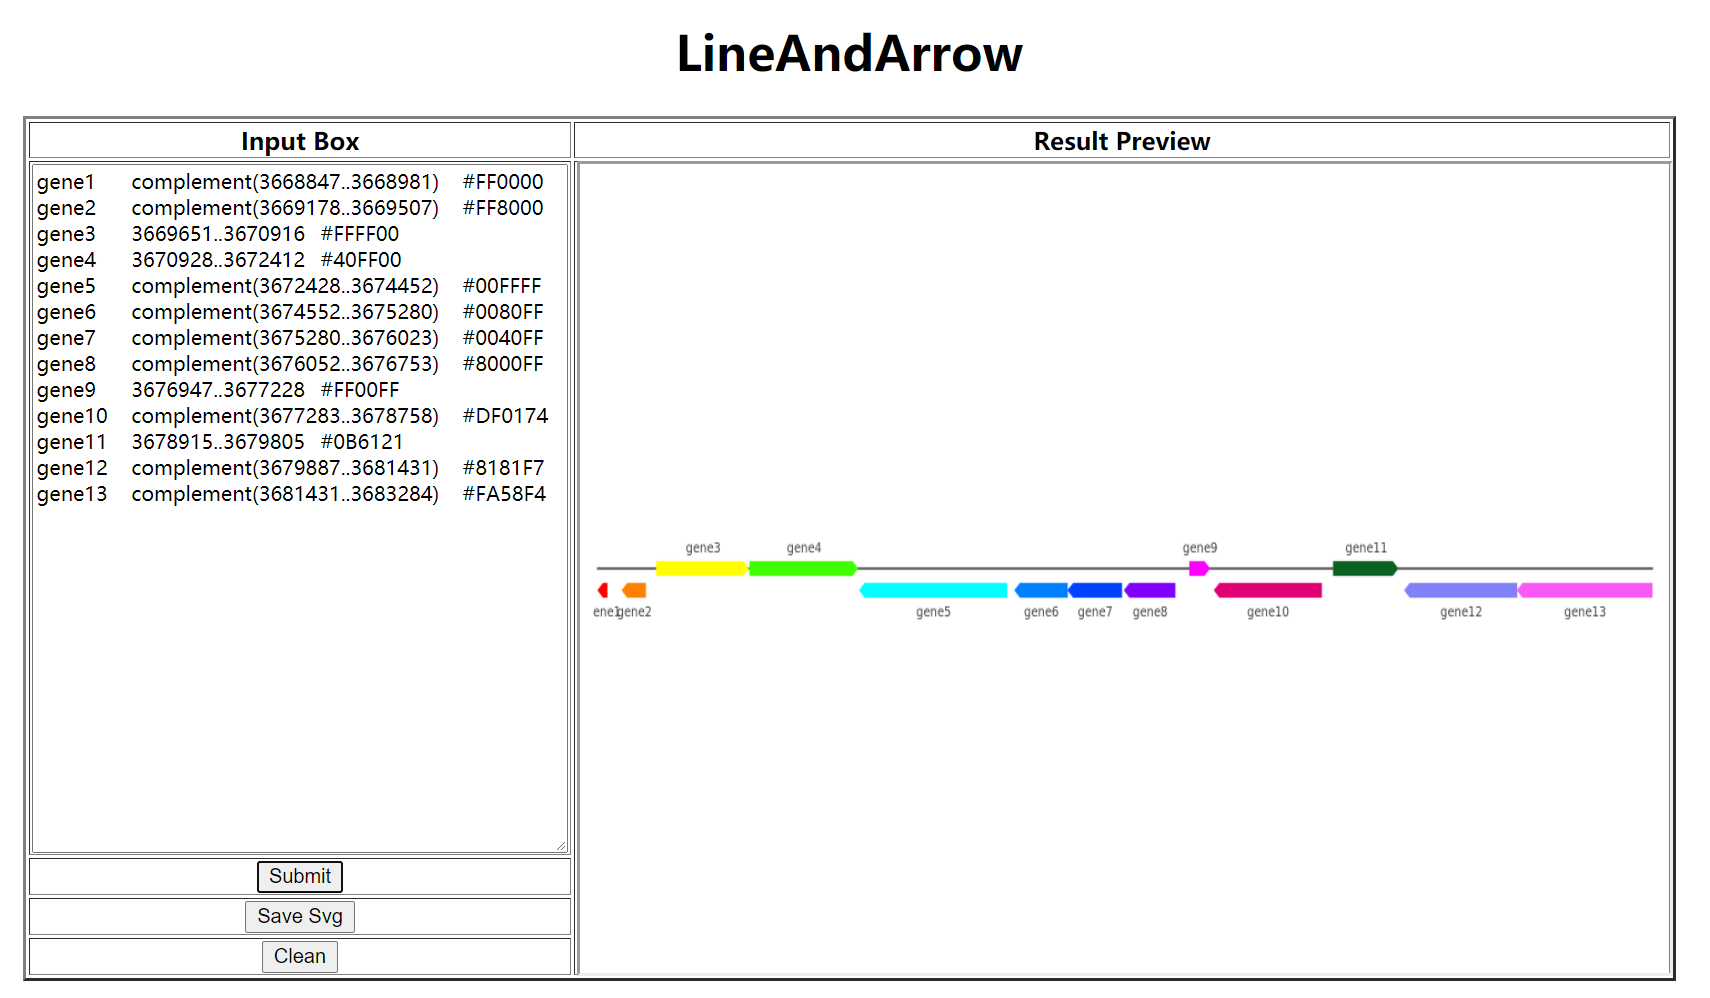
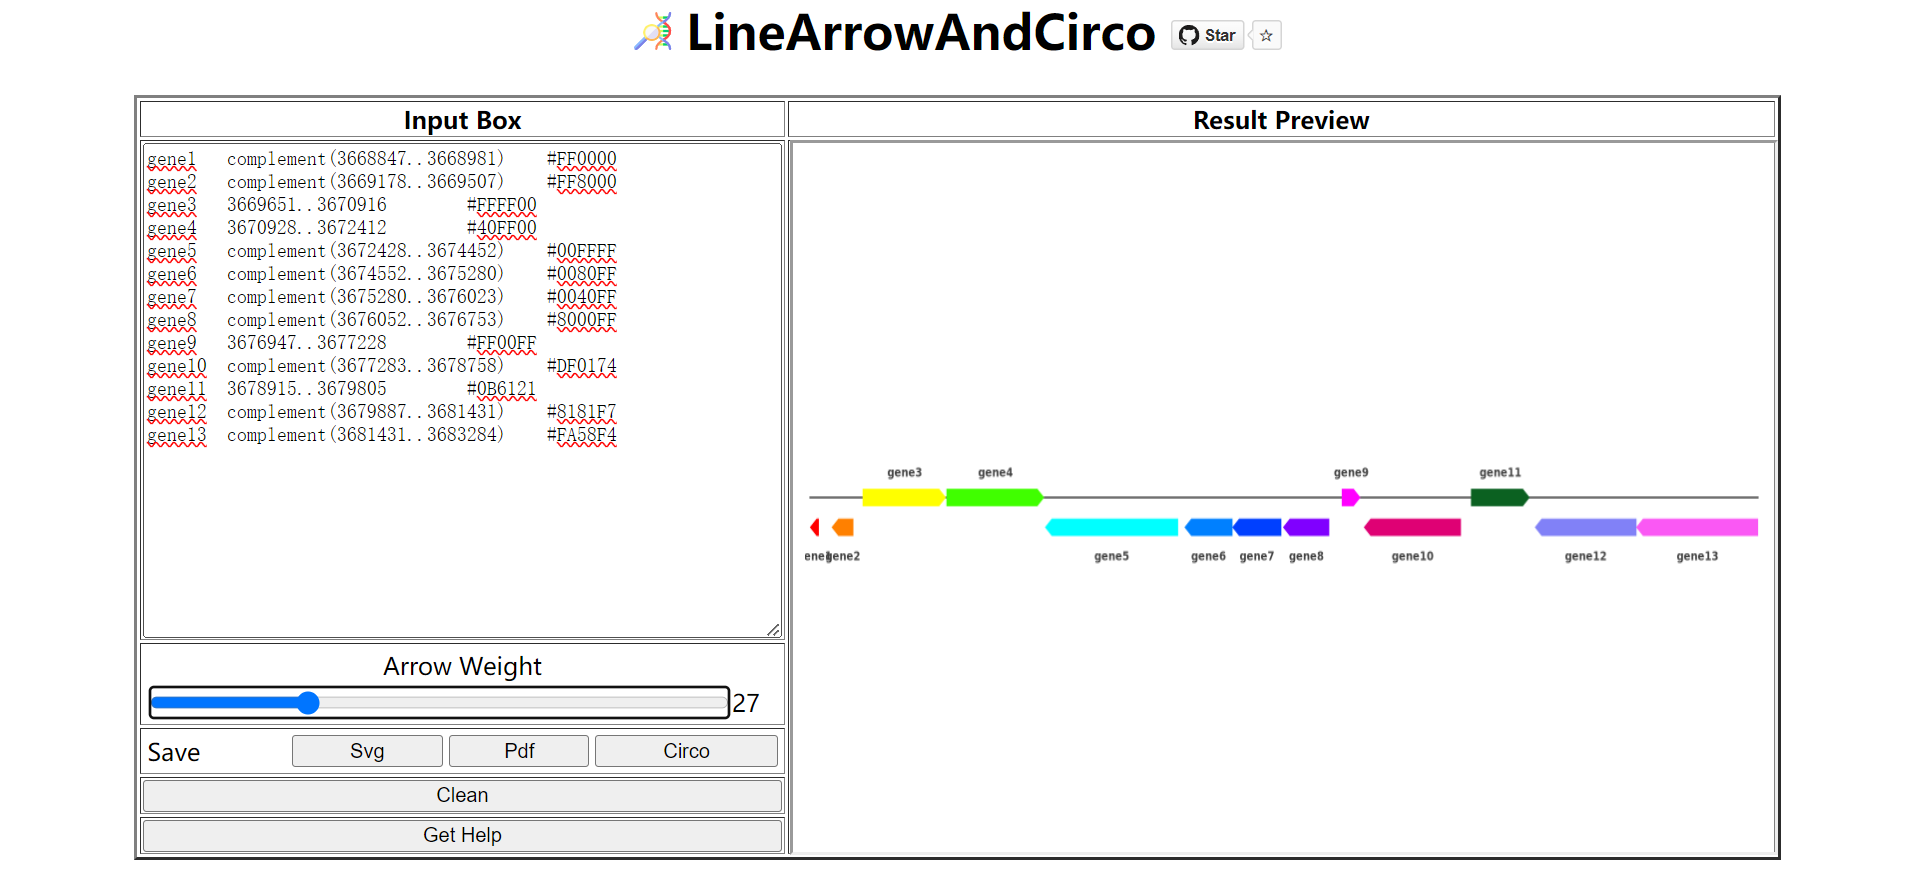
LineArrowAndCirco

Changed region(s): [[0.0, 0.0, 0.9918, 0.9978]]

diff --git a/lib/index.html b/lib/index.html
@@ -41,8 +41,8 @@
                 </div>
               </td>
               <td rowspan="8">
-                <iframe style="height: 100%; width: 100%;" src="" id="resultBox">
-                </iframe>
+                  <iframe style="height: 100%; width: 100%;" src="" id="resultBox"></iframe>
+                </body>
               </td>
             </tr>
             <tr>

diff --git a/src/main.cpp b/src/main.cpp
@@ -1,41 +1,32 @@
-#include "../include/cmdline.h"
 #include "SDK/Dataloader/SDK_Dataloader.hpp"
 #include "SDK/Drawer/SDK_Drawer.hpp"
+#include "../include/cmdline.h"
 #include <algorithm>
-#include <experimental/filesystem>
-#include <fstream>
+#include <filesystem>
 #include <iostream>
 #include <iterator>
 #include <map>
-#include <string>
 #include <vector>
-bool fileExists(const std::string& filename)
-{
-    std::ifstream file(filename);
-    return file.good();
-}
+
 namespace {
 
-
-
-std::map<std::string, std::string> initFolder(const std::string& tmp_dirpath = "./", const std::string& data_dirpath = "./")
+auto initFolder(const std::string& tmp_dirpath = "./", const std::string& data_dirpath = "./")
 {
-    namespace fs = std::experimental::filesystem;
     std::map<std::string, std::string> ph_of_dir;
 
     ph_of_dir["data"] = data_dirpath + "/data/";
     ph_of_dir["setting"] = data_dirpath + "/setting/";
     ph_of_dir["out"] = data_dirpath + "/out/";
     ph_of_dir["tmp"] = tmp_dirpath + "/tmp/";
-    for (auto& i : ph_of_dir)
-    {
-        if (!fileExists(i.second)) {
-            fs::create_directories(i.second);
+
+    for (auto& i : ph_of_dir) {
+        if (std::filesystem::exists(std::filesystem::path(i.second)) == false) {
+            std::filesystem::create_directory(i.second);
         }
     }
-
     return ph_of_dir;
 }
+
 }
 
 decltype(initFolder()) all_path;
@@ -59,7 +50,7 @@ int main(int argc, char** argv)
               << "           |___/" << std::endl
               << "\033[0m" << std::endl;
     cmdline::parser cmdconfig;
-    cmdconfig.set_program_name("LineAndArrow");
+    cmdconfig.set_program_name("LineArrowAndCirco");
     cmdconfig.add<std::string>("input", 'i', "Path to Input File", true);
     cmdconfig.add<std::string>("output", 'o', "Name of Output.", true);
     cmdconfig.add<double>("width", 'w', "Width Of the Arrow", false, 20.0);
@@ -84,12 +75,10 @@ int main(int argc, char** argv)
     SDK_Draw::make_line(surfacesvg, SDK_Core::NormalColor::GRy);
     SDK_Draw::make_circo(circo_surfacepdf);
 
-    std::string inputPath = cmdconfig.get<std::string>("input");
-    
-    
-    if (!fileExists(inputPath)) {
-        std::cout << "\033[1;32m" << inputPath << " Not exist. \033[0m" << std::endl;
-        throw std::logic_error(inputPath + " Not exist.");
+    std::filesystem::path strtxt(cmdconfig.get<std::string>("input"));
+    if (!std::filesystem::exists(cmdconfig.get<std::string>("input"))) {
+        std::cout << "\033[1;32m" << std::string(cmdconfig.get<std::string>("input")) << " Not exist. \033[0m" << std::endl;
+        throw std::logic_error(std::string(cmdconfig.get<std::string>("input")) + std::string(" Not exist."));
     }
     std::vector<SDK_Dataloader::fdata> data = SDK_Dataloader::readdata(cmdconfig.get<std::string>("input"));
     auto a = SDK_Dataloader::normalize_data(data);

diff --git a/src/SDK/Dataloader/SDK_Dataloader.cpp b/src/SDK/Dataloader/SDK_Dataloader.cpp
@@ -1,10 +1,8 @@
 #include "../Dataloader/SDK_Dataloader.hpp"
 #include "../Core/SDK_Core.hpp"
-#include <algorithm>
 #include <fstream>
 #include <iostream>
 #include <regex>
-#include <vector>
 namespace SDK_Dataloader {
 
 fdata::operator std::string()
@@ -24,14 +22,9 @@ std::vector<fdata> readdata(const std::string& pathway)
     if (database.is_open() == false)
         std::cout << "\033[1;32m" << pathway << " Not Open. \033[0m" << std::endl;
     std::vector<fdata> data;
-    int line_num ;
-    std::string content((std::istreambuf_iterator<char>(database)),(std::istreambuf_iterator<char>()));
-    line_num = std::count(content.begin(),content.end(),'\n');
-    int read_line = 0;
-    while (read_line < line_num) {
+    while (database.eof() != true) {
         std::string line;
         std::getline(database, line);
-        read_line++;
         if (line.empty())
             continue;
         try {
@@ -66,27 +59,6 @@ std::vector<pdata> normalize_data(const std::vector<fdata>& thefdata)
         thepdata.push_back(pdata(element.name, (double)(element.startpoint - min_p) / legth, (double)(element.endpoint - min_p) / legth, element.color));
     }
     return thepdata;
-}
-
-double length(const std::vector<fdata>& thefdata)
-{
-    unsigned long long max_p = thefdata[0].startpoint;
-    unsigned long long min_p = thefdata[0].startpoint;
-    for (const auto& element : thefdata) {
-        if (element.startpoint > element.endpoint) {
-            if (element.startpoint > max_p)
-                max_p = element.startpoint;
-            if (element.endpoint < min_p)
-                min_p = element.endpoint;
-        } else {
-            if (element.endpoint > max_p)
-                max_p = element.endpoint;
-            if (element.startpoint < min_p)
-                min_p = element.startpoint;
-        }
-    }
-    double length = max_p - min_p;
-    return length;
 }
 
 // ^([A-Za-z0-9]+)\s+([A-Za-z]*)\(*\s*(\d+)..(\d+)\s*\)*\s+(\w*)$

diff --git a/src/SDK/Drawer/SDK_Drawer.cpp b/src/SDK/Drawer/SDK_Drawer.cpp
@@ -105,11 +105,18 @@ void circo_arrow(cr::cairo_surface_t* surface, const double& startPresent, const
 {
     double new_startPresent ;
     double new_endtPresent  ;
-     if (startPresent > endPresent)
+    if (startPresent > endPresent)
     {
         new_startPresent = endPresent;
         new_endtPresent = startPresent;
     }
+    else
+    {
+        new_startPresent = startPresent;
+        new_endtPresent = endPresent;
+
+    }
+    
 
     cr::cairo_t* pan = cr::cairo_create(surface);
     cr::cairo_move_to(pan, center_x + radius * cos(new_startPresent * 2 * M_PI), center_y + radius * sin(new_startPresent * 2 * M_PI));
@@ -125,10 +132,10 @@ void circo_annotate(cr::cairo_surface_t* surface, const double& Present, const c
 {
     cr::cairo_t* pan = cr::cairo_create(surface);
     cr::cairo_new_sub_path(pan);
-    cr::cairo_select_font_face(pan, "Arial", cr::CAIRO_FONT_SLANT_NORMAL, cr::CAIRO_FONT_WEIGHT_BOLD);
+    cr::cairo_select_font_face(pan, "Sans", cr::CAIRO_FONT_SLANT_NORMAL, cr::CAIRO_FONT_WEIGHT_BOLD);
     cr::cairo_set_font_size(pan, 10);
-    cr::cairo_set_source_rgb(pan, 0, 1, 1);
-    cr::cairo_move_to(pan, center_x + radius * cos(Present * M_PI), center_y + radius * sin(Present * M_PI));
+    cr::cairo_set_source_rgb(pan, 0, 0, 0);
+    cr::cairo_move_to(pan, center_x + radius * cos(Present *2* M_PI), center_y + radius * sin(Present *2* M_PI));
     cr::cairo_show_text(pan, context);
     cr::cairo_destroy(pan);
 }

diff --git a/src/SDK/Dataloader/SDK_Dataloader.hpp b/src/SDK/Dataloader/SDK_Dataloader.hpp
@@ -2,9 +2,6 @@
 #define SDK_Dataloader_hpp
 #include "../Core/SDK_Core.hpp"
 #include <vector>
-// namespace json {
-// #include "../cjson/cJSON.hpp"
-// }
 namespace SDK_Dataloader {
 struct fdata {
     std::string name;
@@ -55,7 +52,6 @@ struct pdata {
 };
 std::vector<fdata> readdata(const std::string& pathway);
 std::vector<pdata> normalize_data(const std::vector<fdata>& thefdata);
-double length(const std::vector<fdata>& thefdata);
 fdata Reline(const std::string& text);
 SDK_Core::RGB changeCharToRGB(const char* text);
 }

diff --git a/src/SDK/Core/SDK_Core.cpp b/src/SDK/Core/SDK_Core.cpp
@@ -4,14 +4,20 @@
 namespace SDK_Core {
 std::string ltos(const unsigned long long l)
 {
+    std::ostringstream os;
+    os << l;
     std::string result;
-    result = std::to_string(l);
+    std::istringstream is(os.str());
+    is >> result;
     return result;
 }
 std::string dtos(const double l)
 {
+    std::ostringstream os;
+    os << l;
     std::string result;
-    result = std::to_string(l);
+    std::istringstream is(os.str());
+    is >> result;
     return result;
 }
 RGB::operator std::string() const

diff --git a/src/server.py b/src/server.py
@@ -8,7 +8,7 @@ import base64
 import subprocess
 import argparse
 
-Port = 58091
+Port = 5000
 path_to_exe = ""
 
 if os.path.exists("./out/") == False:
@@ -52,6 +52,8 @@ def LineArrowAndCirco():
         cmdstdout.wait()
         svgdata = str()
         pngdata = str()
+        pdfdata = str()
+        circo_pdfdata = str()
         with open("./out/img/{}.svg".format(filename)) as f:
             svgdata = f.read()
         with open("./out/img/{}.png".format(filename), 'rb') as f:
